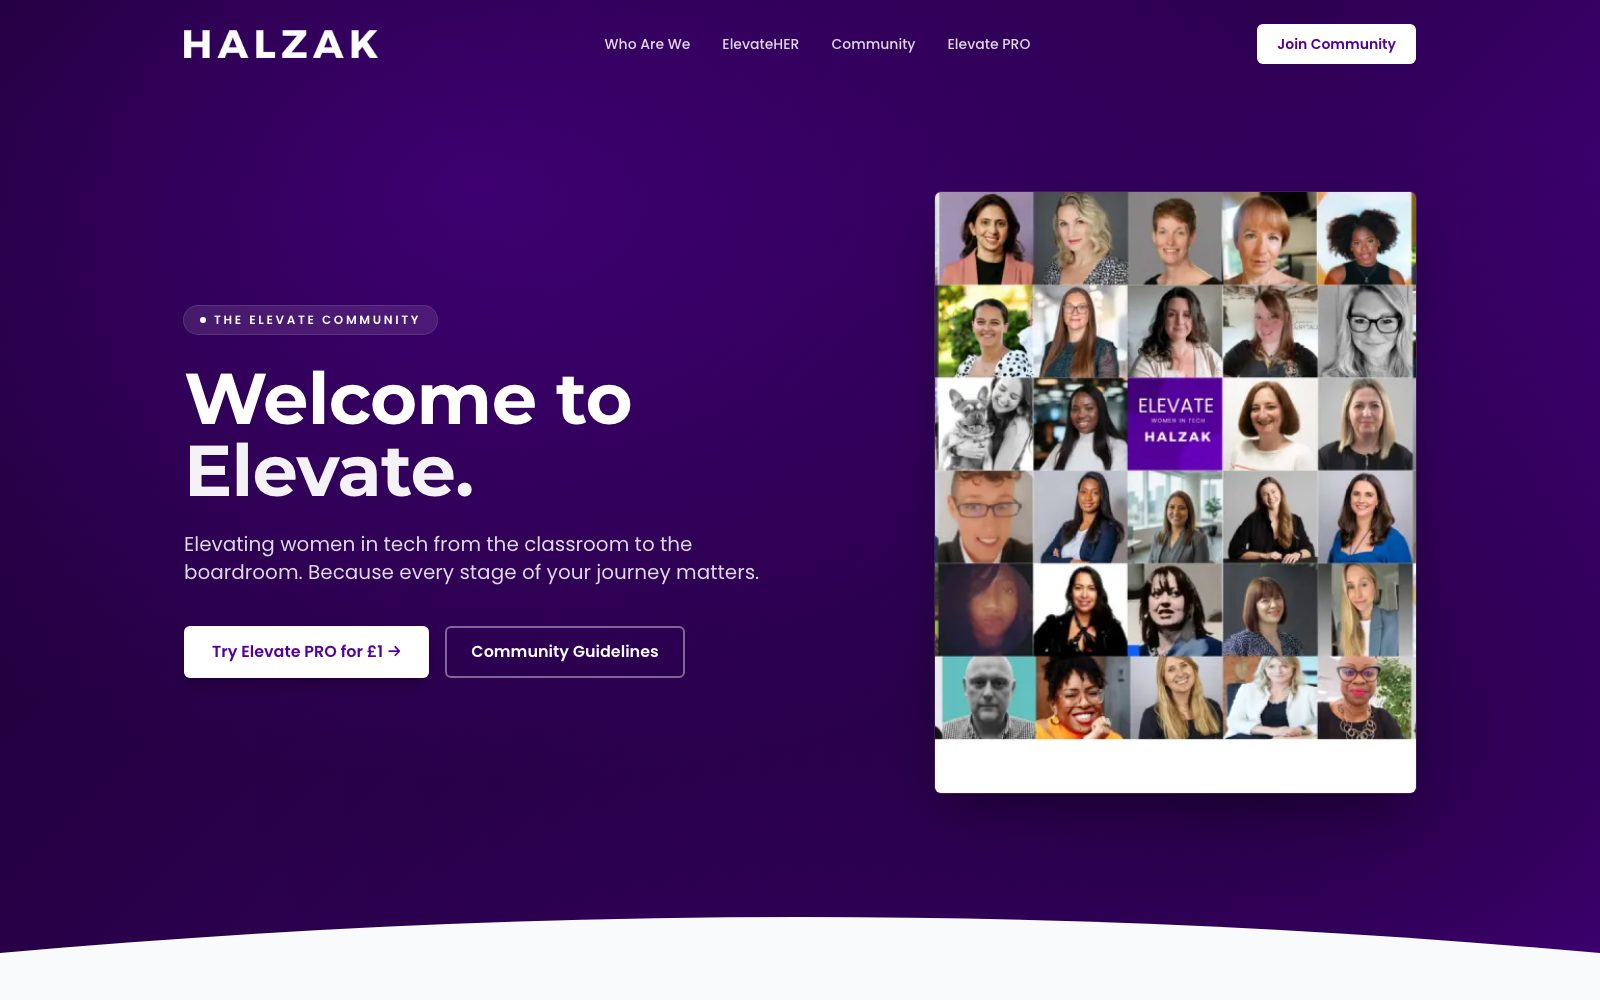
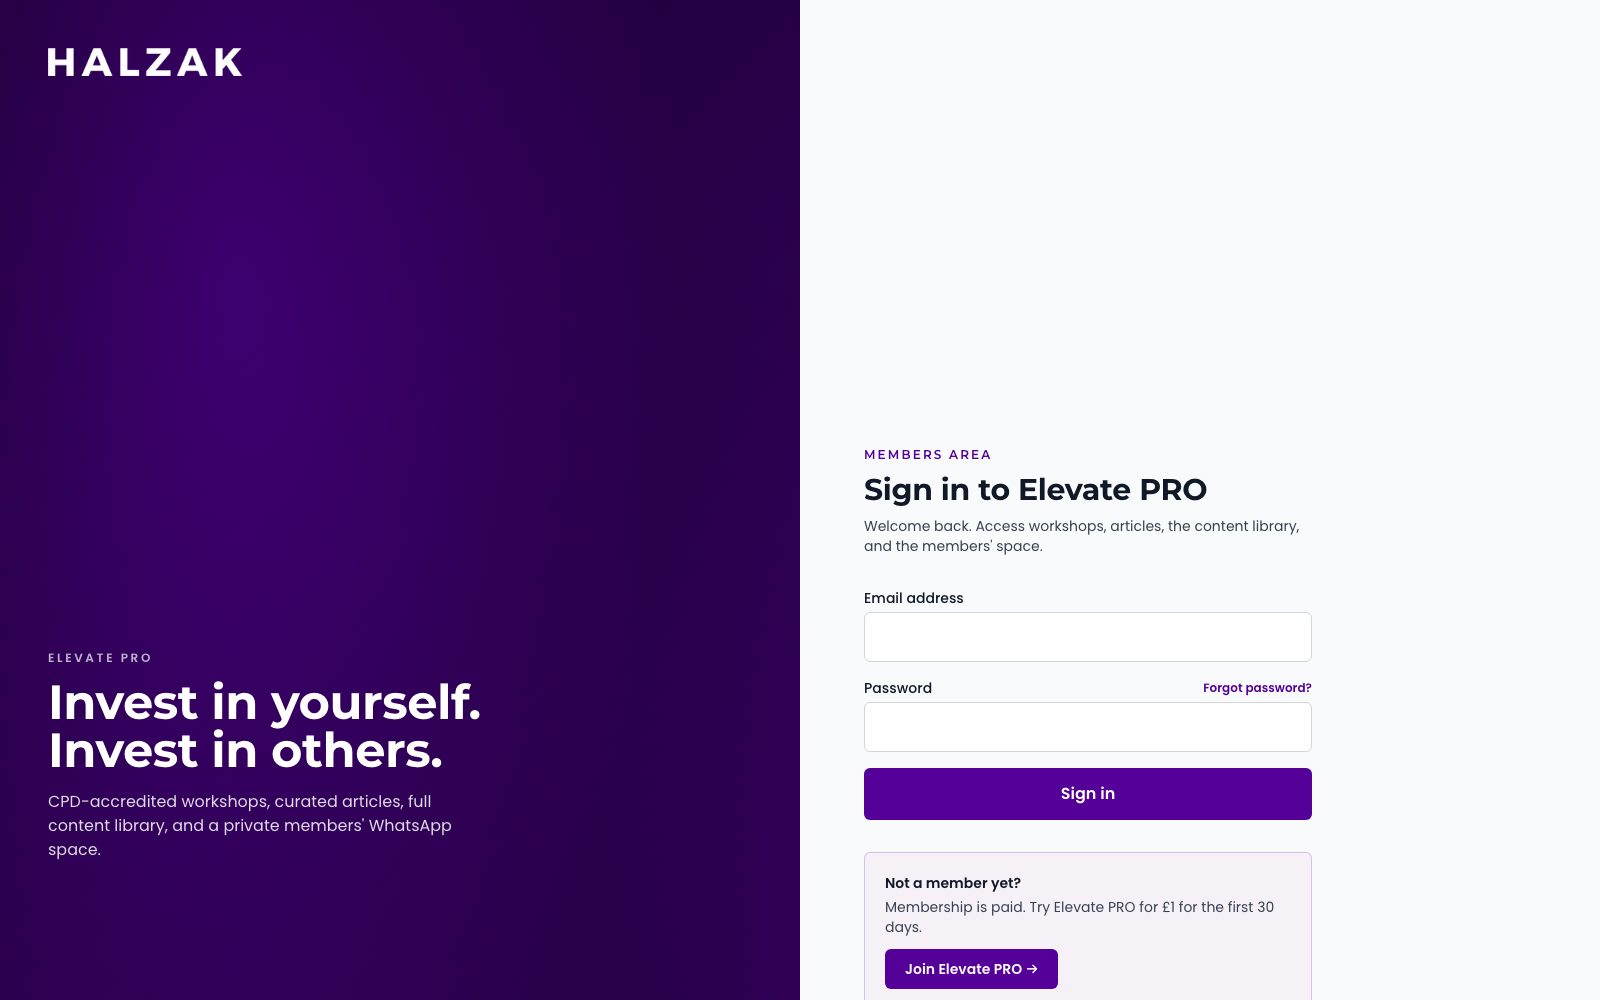
Branded hero bento replaces the CRM screen stack; dummy-data-only imagery
- New HeroBento: six glass tiles (websites, CRM, apps, automation, AI & voice, hosting) drawn
  in CSS/SVG with placeholder content, no screenshots or customer data
- Remove hero-stack and ui-panel
- Work images for Raw Wins, Halzak Elevate and Onyx re-captured on pages with no real names or faces

diff --git a/components/home/hero-bento.tsx b/components/home/hero-bento.tsx
@@ -1,0 +1,271 @@
+import Link from "next/link";
+import {
+  Globe,
+  Database,
+  Smartphone,
+  Workflow,
+  Bot,
+  Server,
+  ArrowUpRight,
+  Check,
+} from "lucide-react";
+
+/**
+ * Branded hero composition: six glass tiles, one per part of the offering,
+ * each with an abstract illustration built from CSS and SVG. No screenshots,
+ * no customer data. Everything shown is decorative placeholder.
+ */
+
+function Tile({
+  href,
+  icon: Icon,
+  label,
+  stat,
+  className,
+  children,
+}: {
+  href: string;
+  icon: typeof Globe;
+  label: string;
+  stat: string;
+  className?: string;
+  children: React.ReactNode;
+}) {
+  return (
+    <Link
+      href={href}
+      className={`group relative overflow-hidden rounded-2xl glass hover:border-white/20 transition-colors flex flex-col ${className ?? ""}`}
+    >
+      <div className="flex items-center justify-between px-5 pt-4">
+        <div className="flex items-center gap-2.5">
+          <div className="flex h-7 w-7 items-center justify-center rounded-md hairline-strong bg-obsidian-3">
+            <Icon className="h-3.5 w-3.5 text-cream" strokeWidth={1.6} />
+          </div>
+          <span className="text-[13px] font-medium text-cream/90">{label}</span>
+        </div>
+        <ArrowUpRight className="h-3.5 w-3.5 text-fog group-hover:text-cream transition-colors" />
+      </div>
+      <div className="relative flex-1 px-5 pt-4 pb-2 min-h-0 overflow-hidden">{children}</div>
+      <div className="relative z-10 px-5 pb-4 pt-1 font-mono text-[10px] uppercase tracking-[0.2em] text-fog-2 bg-gradient-to-t from-obsidian/60 to-transparent">
+        {stat}
+      </div>
+    </Link>
+  );
+}
+
+function Bar({ w, tone = "cream" }: { w: string; tone?: "cream" | "accent" | "dim" }) {
+  const cls =
+    tone === "accent"
+      ? "bg-gradient-accent opacity-80"
+      : tone === "dim"
+        ? "bg-white/10"
+        : "bg-white/25";
+  return <div className={`h-1.5 rounded-full ${cls}`} style={{ width: w }} />;
+}
+
+export function HeroBento() {
+  return (
+    <div className="relative mx-auto w-full max-w-[1180px]">
+      <div
+        aria-hidden
+        className="absolute -inset-10 rounded-[48px] opacity-60 blur-3xl pointer-events-none"
+        style={{
+          background:
+            "radial-gradient(60% 50% at 50% 40%, rgba(45,212,191,0.35) 0%, rgba(168,85,247,0.22) 45%, transparent 78%)",
+        }}
+      />
+
+      <div className="relative grid gap-3 md:gap-4 grid-cols-2 md:grid-cols-6 auto-rows-[190px] md:auto-rows-[220px]">
+        {/* Website: browser frame with hero skeleton */}
+        <Tile
+          href="/services/websites"
+          icon={Globe}
+          label="Websites"
+          stat="Ranking · under 300ms"
+          className="col-span-2 md:col-span-3 md:row-span-2"
+        >
+          <div className="h-full rounded-xl hairline bg-obsidian/70 overflow-hidden flex flex-col">
+            <div className="flex items-center gap-1.5 px-3 py-2 border-b border-white/5">
+              <span className="h-2 w-2 rounded-full bg-white/15" />
+              <span className="h-2 w-2 rounded-full bg-white/15" />
+              <span className="h-2 w-2 rounded-full bg-white/15" />
+              <span className="ml-2 h-1.5 w-24 rounded-full bg-white/10" />
+            </div>
+            <div className="flex-1 p-4 md:p-5 grid md:grid-cols-5 gap-4">
+              <div className="md:col-span-3 flex flex-col gap-2.5 justify-center">
+                <Bar w="30%" tone="accent" />
+                <div className="h-3 w-[85%] rounded bg-white/30" />
+                <div className="h-3 w-[65%] rounded bg-white/30" />
+                <div className="mt-1 space-y-1.5">
+                  <Bar w="90%" tone="dim" />
+                  <Bar w="75%" tone="dim" />
+                </div>
+                <div className="mt-2 flex gap-2">
+                  <span className="h-6 w-20 rounded-full bg-gradient-accent opacity-90" />
+                  <span className="h-6 w-16 rounded-full hairline-strong" />
+                </div>
+              </div>
+              <div className="hidden md:block md:col-span-2 rounded-lg overflow-hidden relative">
+                <div className="absolute inset-0 bg-gradient-to-br from-cyan/30 via-obsidian-3 to-violet/30" />
+                <div className="absolute inset-0 bg-grid-fine opacity-60" />
+              </div>
+            </div>
+            <div className="grid grid-cols-4 gap-2 px-4 pb-4">
+              {[0, 1, 2, 3].map((i) => (
+                <div key={i} className="h-9 rounded-md hairline bg-white/[0.03] px-2 py-1.5 space-y-1">
+                  <Bar w="60%" tone="cream" />
+                  <Bar w="85%" tone="dim" />
+                </div>
+              ))}
+            </div>
+          </div>
+        </Tile>
+
+        {/* CRM: pipeline columns */}
+        <Tile
+          href="/services/crm"
+          icon={Database}
+          label="CRM"
+          stat="Pipeline · quotes · invoices"
+          className="col-span-2 md:col-span-3"
+        >
+          <div className="grid grid-cols-3 gap-2 h-full">
+            {[
+              { t: "Lead", n: 2, tone: "cyan" },
+              { t: "Quoted", n: 2, tone: "violet" },
+              { t: "Won", n: 1, tone: "cream" },
+            ].map((c) => (
+              <div key={c.t} className="rounded-lg hairline bg-obsidian/60 p-2 flex flex-col gap-1.5">
+                <div className="flex items-center gap-1.5 font-mono text-[9px] uppercase tracking-[0.16em] text-fog">
+                  <span
+                    className={`h-1.5 w-1.5 rounded-full ${
+                      c.tone === "cyan" ? "bg-cyan" : c.tone === "violet" ? "bg-violet" : "bg-cream/70"
+                    }`}
+                  />
+                  {c.t}
+                </div>
+                {Array.from({ length: c.n }).map((_, i) => (
+                  <div key={i} className="rounded-md bg-white/[0.05] hairline p-1.5 space-y-1">
+                    <Bar w={`${70 - i * 12}%`} tone="cream" />
+                    <div className="flex items-center justify-between">
+                      <Bar w="35%" tone="dim" />
+                      <span className="h-3.5 w-3.5 rounded-full bg-gradient-accent opacity-70" />
+                    </div>
+                  </div>
+                ))}
+              </div>
+            ))}
+          </div>
+        </Tile>
+
+        {/* Apps: phone with widgets */}
+        <Tile
+          href="/services/app-development"
+          icon={Smartphone}
+          label="Apps"
+          stat="iOS · watch"
+          className="md:col-span-1 md:row-span-1"
+        >
+          <div className="mx-auto h-full max-w-[96px] rounded-[18px] hairline-strong bg-obsidian/70 p-2 flex flex-col gap-1.5">
+            <div className="mx-auto h-1 w-8 rounded-full bg-white/15" />
+            <div className="grid grid-cols-2 gap-1.5 mt-1">
+              <div className="aspect-square rounded-md bg-gradient-accent opacity-80" />
+              <div className="aspect-square rounded-md hairline bg-white/[0.04]" />
+              <div className="col-span-2 h-8 rounded-md hairline bg-white/[0.04] p-1.5 space-y-1">
+                <Bar w="70%" tone="cream" />
+                <Bar w="45%" tone="dim" />
+              </div>
+            </div>
+          </div>
+        </Tile>
+
+        {/* Automation: node graph */}
+        <Tile
+          href="/services/custom-solutions"
+          icon={Workflow}
+          label="Automation"
+          stat="Runs while you sleep"
+          className="md:col-span-2"
+        >
+          <svg viewBox="0 0 240 90" className="h-full w-full" aria-hidden>
+            <defs>
+              <linearGradient id="hb-line" x1="0" x2="1">
+                <stop offset="0" stopColor="#2DD4BF" />
+                <stop offset="1" stopColor="#A855F7" />
+              </linearGradient>
+            </defs>
+            <path d="M28 45 C70 45, 70 20, 112 20 S154 45, 196 45" fill="none" stroke="url(#hb-line)" strokeWidth="1.5" opacity="0.7" />
+            <path d="M28 45 C70 45, 70 70, 112 70 S154 45, 196 45" fill="none" stroke="url(#hb-line)" strokeWidth="1.5" opacity="0.4" />
+            {[
+              [28, 45],
+              [112, 20],
+              [112, 70],
+              [196, 45],
+            ].map(([x, y], i) => (
+              <g key={i}>
+                <rect x={x - 16} y={y - 10} width="32" height="20" rx="6" fill="#0F1014" stroke="rgba(255,255,255,0.14)" />
+                <rect x={x - 9} y={y - 2} width="18" height="3" rx="1.5" fill="rgba(255,255,255,0.35)" />
+              </g>
+            ))}
+            <circle cx="196" cy="45" r="3" fill="#2DD4BF" />
+          </svg>
+        </Tile>
+
+        {/* AI & voice: waveform + reply */}
+        <Tile
+          href="/services/ai-agents"
+          icon={Bot}
+          label="AI & voice"
+          stat="Answers · quotes · books"
+          className="md:col-span-3"
+        >
+          <div className="h-full flex flex-col justify-center gap-3">
+            <div className="flex items-end gap-[3px] h-8">
+              {[3, 6, 10, 16, 22, 14, 8, 18, 26, 20, 12, 6, 9, 15, 24, 17, 10, 5, 8, 12, 6, 3].map((h, i) => (
+                <span
+                  key={i}
+                  className="w-[3px] rounded-full bg-gradient-accent opacity-80"
+                  style={{ height: `${h}px` }}
+                />
+              ))}
+            </div>
+            <div className="rounded-lg hairline bg-obsidian/60 p-2.5 space-y-1.5">
+              <div className="flex items-center gap-2 font-mono text-[9px] uppercase tracking-[0.16em] text-cyan">
+                <Check className="h-3 w-3" strokeWidth={2} /> Quote captured
+              </div>
+              <Bar w="88%" tone="cream" />
+              <Bar w="55%" tone="dim" />
+            </div>
+          </div>
+        </Tile>
+
+        {/* Hosting: uptime bars */}
+        <Tile
+          href="/services/hosting"
+          icon={Server}
+          label="Hosting"
+          stat="Monitored · backed up"
+          className="md:col-span-3"
+        >
+          <div className="h-full flex flex-col justify-center gap-2.5 max-w-[420px]">
+            {[100, 100, 99.9, 100].map((v, i) => (
+              <div key={i} className="flex items-center gap-2">
+                <div className="flex-1 flex gap-[2px]">
+                  {Array.from({ length: 14 }).map((_, j) => (
+                    <span
+                      key={j}
+                      className={`h-3 flex-1 rounded-[2px] ${
+                        i === 2 && j === 9 ? "bg-violet/70" : "bg-cyan/60"
+                      }`}
+                    />
+                  ))}
+                </div>
+                <span className="font-mono text-[9px] text-fog w-9 text-right">{v}%</span>
+              </div>
+            ))}
+          </div>
+        </Tile>
+      </div>
+    </div>
+  );
+}

diff --git a/components/home/hero-v2.tsx b/components/home/hero-v2.tsx
@@ -3,7 +3,7 @@ import { Button } from "@/components/shared/button";
 import { DotGrid } from "@/components/shared/dot-grid";
 import { MonoLabel } from "@/components/shared/mono-label";
 import { BrandLogo } from "@/components/shared/brand-logo";
-import { HeroStack } from "@/components/home/hero-stack";
+import { HeroBento } from "@/components/home/hero-bento";
 
 const HERO_PROOF_BRANDS = [
   "McDonald's",
@@ -104,13 +104,7 @@ export function HeroV2() {
           className="relative mx-auto pt-6 pb-24 md:pb-32 anim-fade-up"
           style={{ animationDelay: "380ms" }}
         >
-          <HeroStack />
-
-          <div className="absolute bottom-8 md:bottom-12 left-1/2 -translate-x-1/2 z-40">
-            <div className="glass rounded-full px-3 py-1.5">
-              <MonoLabel withDot tone="live">Live operator dashboards · mockup data</MonoLabel>
-            </div>
-          </div>
+          <HeroBento />
         </div>
 
         <div className="mt-20 md:mt-28 pb-14">
